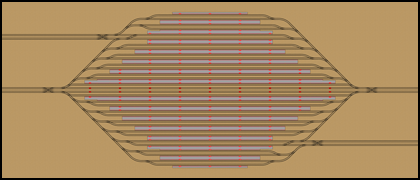
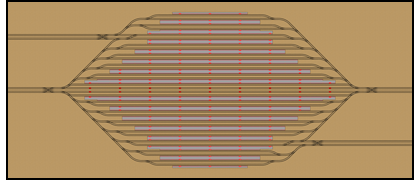
reduced map texture width under 8192

Changed region(s): [[0.9595, 0.0, 1.0, 1.0], [0.0, 0.0, 0.031, 1.0]]

diff --git a/game.py b/game.py
@@ -3,6 +3,7 @@ import io
 import logging
 import os
 import time
+import ctypes
 
 import win32api
 import win32gui
@@ -10,6 +11,7 @@ import win32con
 import pyglet
 
 from onboarding_tips import OnboardingTips
+from main_map import NotSupportedVideoAdapterException
 
 
 def _game_window_is_active(fn):
@@ -22,6 +24,11 @@ def _game_window_is_active(fn):
 
 class Game:
     def __init__(self, caption):
+        max_texture_size = ctypes.c_long(0)
+        pyglet.gl.glGetIntegerv(pyglet.gl.GL_MAX_TEXTURE_SIZE, max_texture_size)
+        if max_texture_size.value < 8192:
+            raise NotSupportedVideoAdapterException
+
         self.logs_config = configparser.RawConfigParser()
         self.logger = logging.getLogger('game')
         self.logs_stream = io.StringIO()
@@ -95,7 +102,7 @@ class Game:
         mini_map_image = pyglet.image.load('img/mini_map/5/mini_map.png')
         self.mini_map_tip \
             = OnboardingTips(image=mini_map_image,
-                             x=self.c['graphics']['screen_resolution'][0] - mini_map_image.width - 6,
+                             x=self.c['graphics']['screen_resolution'][0] - mini_map_image.width,
                              y=self.c['graphics']['screen_resolution'][1] - self.c['graphics']['top_bar_height']
                              - 4 - mini_map_image.height,
                              tip_type='mini_map', batch=self.batch,

diff --git a/main_map.py b/main_map.py
@@ -8,7 +8,6 @@ from game_object import GameObject
 class NotSupportedVideoAdapterException(Exception):
     def __init__(self):
         self.surface = None
-        self.handler = None
         self.text = 'Your video adapter is not supported.'
         self.caption = 'Video Adapter Error'
 
@@ -22,7 +21,7 @@ class MainMap(GameObject):
         self.sprite = None
         try:
             self.sprite = pyglet.sprite.Sprite(pyglet.image.load('img/map/4/full_map.png'),
-                                               x=self.c['graphics']['base_offset'][0],
+                                               x=self.c['graphics']['base_offset'][0] + 120,
                                                y=self.c['graphics']['base_offset'][1],
                                                batch=batch, group=group)
         except pyglet.gl.lib.GLException:
@@ -33,4 +32,4 @@ class MainMap(GameObject):
         self.logger.warning('main map init completed')
 
     def update_sprite(self, base_offset):
-        self.sprite.position = base_offset
+        self.sprite.position = (base_offset[0] + 120, base_offset[1])

diff --git a/rssim.py b/rssim.py
@@ -35,7 +35,6 @@ class RSSim(Game):
         try:
             self.create_main_map()
         except NotSupportedVideoAdapterException as e:
-            e.handler = self.game_window_handler
             e.surface = self.surface
             raise e
         # we create routes, signals and dispatcher and link them to each other correctly
@@ -977,7 +976,9 @@ def main():
     try:
         RSSim().run()
     except NotSupportedVideoAdapterException as e:
-        e.surface.close()
+        if e.surface is not None:
+            e.surface.close()
+
         win32api.MessageBoxEx(win32con.NULL, e.text, e.caption,
                               win32con.MB_OK | win32con.MB_ICONERROR | win32con.MB_DEFBUTTON1
                               | win32con.MB_SYSTEMMODAL | win32con.MB_SETFOREGROUND, 0)
